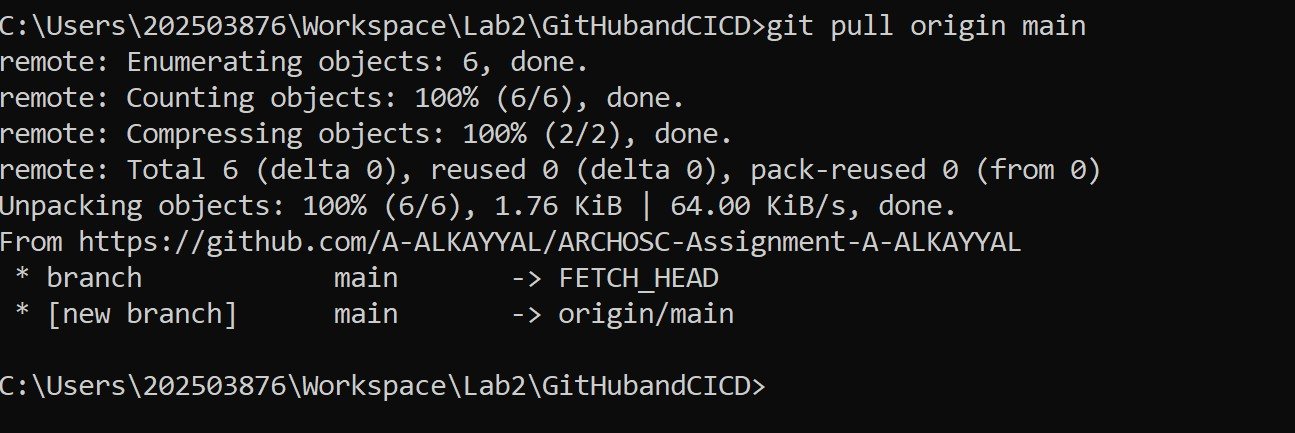
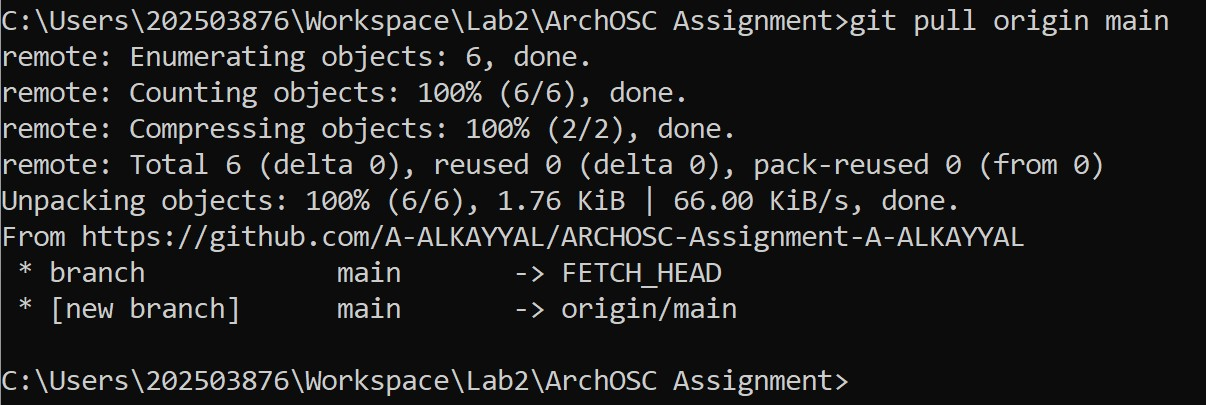
1

Changed region(s): [[0.0, 0.0296, 0.9818, 0.8], [0.0, 0.8593, 0.7056, 0.9778]]

diff --git a/index.html b/index.html
@@ -3,24 +3,10 @@
 <head>
     <meta charset="UTF-8">
     <meta name="viewport" content="width=device-width, initial-scale=1.0">
-    <title>Centered Name</title>
-    <style>
-        body {
-            display: flex;
-            justify-content: center;
-            align-items: center;
-            height: 100vh;
-            margin: 0;
-            font-family: Arial, sans-serif;
-            background-color: #f0f0f0;
-        }
-        h1 {
-            font-size: 3rem;
-            color: #333;
-        }
-    </style>
+    <title>Centered Name | A-ALKAYYAL</title>
+    <link rel="stylesheet" href="style.css">
 </head>
 <body>
-    <h1>My name is: A-ALKAYYAL</h1>
+    <h1>My name is: <span class="name">A-ALKAYYAL</span></h1>
 </body>
 </html>

diff --git a/style.css b/style.css
@@ -1,0 +1,28 @@
+
+body {
+    display: flex;
+    justify-content: center;
+    align-items: center;
+    height: 100vh;
+    margin: 0;
+    font-family: 'Segoe UI', Tahoma, Geneva, Verdana, sans-serif;
+    background: linear-gradient(135deg, #667eea 0%, #764ba2 100%);
+}
+
+h1 {
+    font-size: 3rem;
+    color: white;
+    background: rgba(255, 255, 255, 0.15);
+    padding: 1.5rem 2.5rem;
+    border-radius: 20px;
+    backdrop-filter: blur(10px);
+    box-shadow: 0 8px 32px rgba(0, 0, 0, 0.2);
+    border: 1px solid rgba(255, 255, 255, 0.3);
+    text-shadow: 2px 2px 4px rgba(0, 0, 0, 0.2);
+}
+
+.name {
+    color: #ffd700;
+    font-weight: bold;
+    letter-spacing: 2px;
+}
